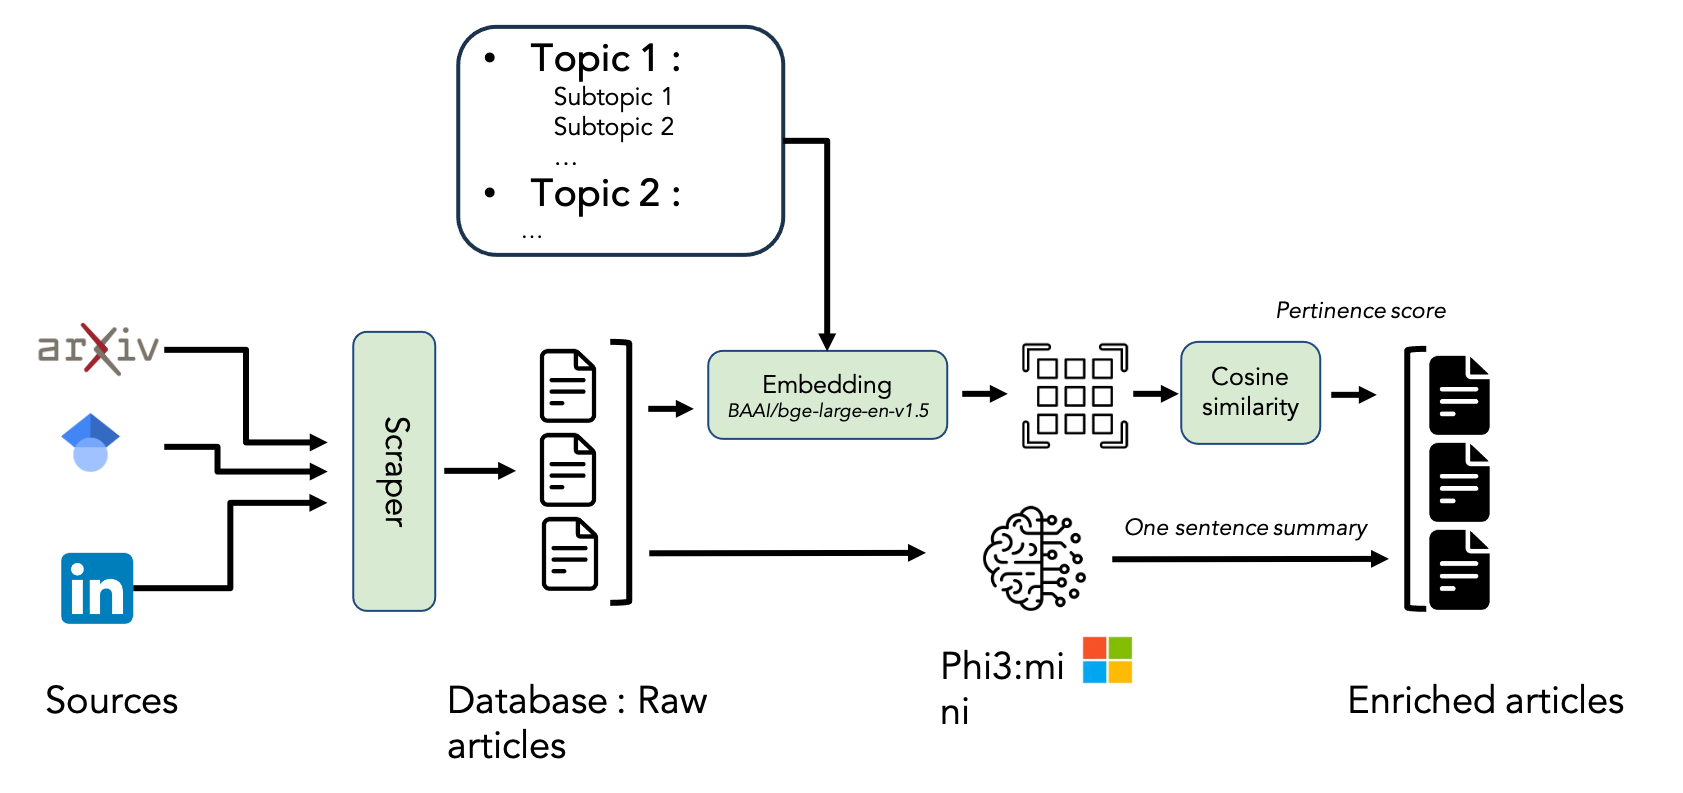
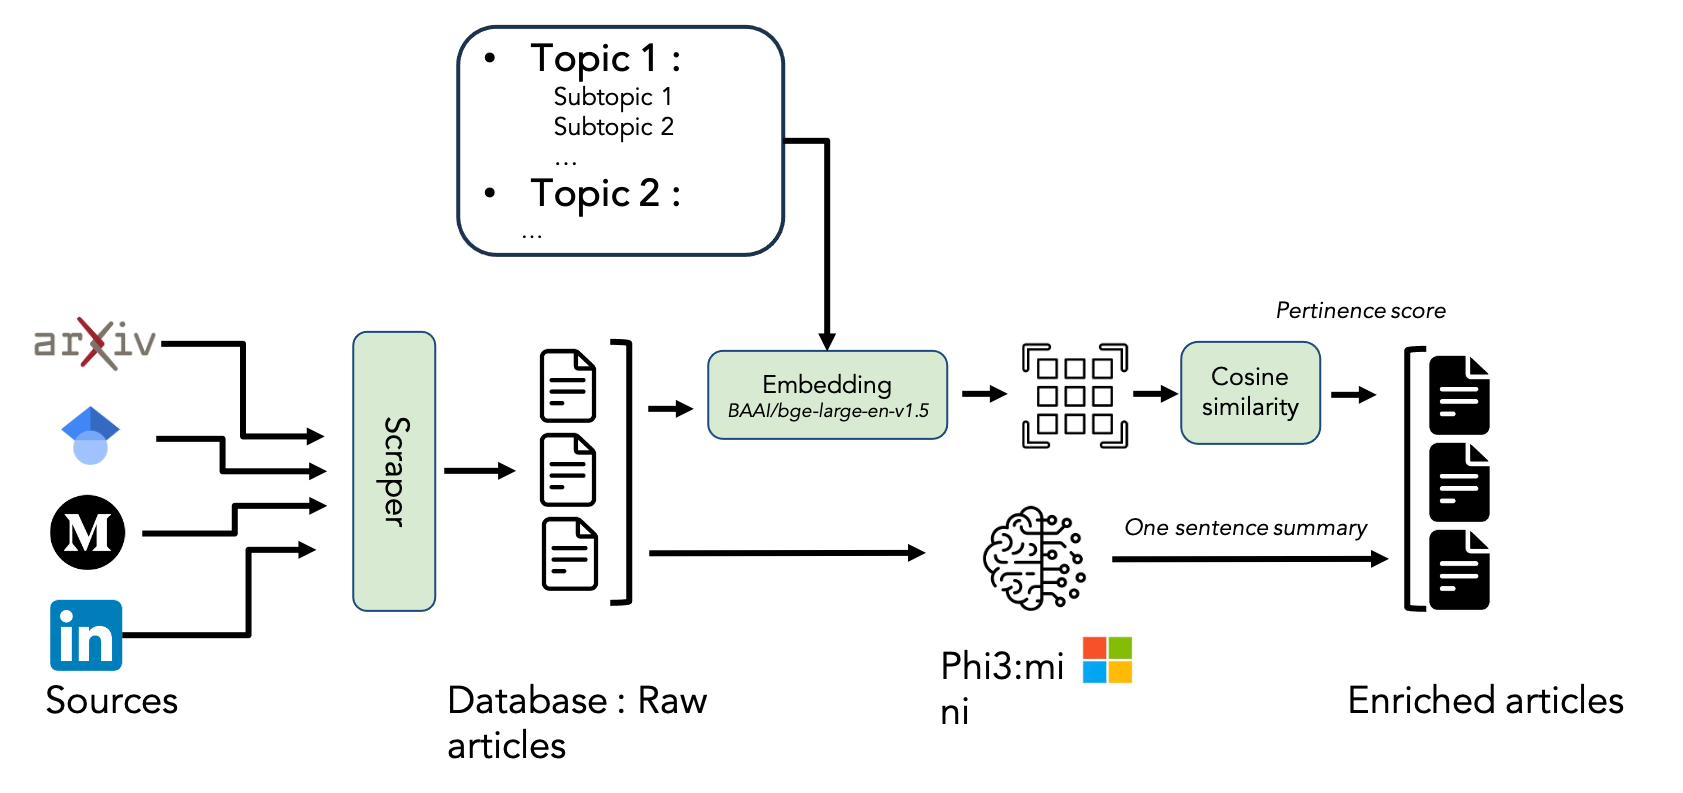
update a propos de ce travai part

Changed region(s): [[0.0, 0.3934, 0.2163, 0.8474]]

diff --git a/app.js b/app.js
@@ -525,11 +525,34 @@ function renderAboutWork() {
     </div>
     <div class="about-work-page">
       <p class="about-work-lead">
-        Ce projet de veille technologique (MOS 4.4) vise à suivre les avancées sur les <b>Small Language Models (SLM)</b> et le <b>Edge AI</b>.
-        Les articles sont collectés, analysés et classés selon une taxonomie (catégories / sous-catégories).
-        Une interface permet d'explorer les articles par thème et de consulter les synthèses pédagogiques sur les SLM et le Edge AI.
-        Tout le travail est reproductible et peut être mis à jour via les scripts de scrapings / traitement des données dans le dépôt github.
+        Ce projet de veille technologique (MOS 4.4) vise à suivre les avancées sur les <b>Small Language Models (SLM)</b> et le <b>Edge AI</b> :
+        articles et publications sont collectés depuis plusieurs sources, enrichis par une classification automatique selon une taxonomie (sujets et sous-sujets) et par la génération de résumés,
+        puis explorables via ce site. Les détails techniques (scripts, commandes, structure du dépôt) sont dans le README du projet.
       </p>
+
+      <div class="subsection-label">Objectifs</div>
+      <p class="about-work-p">
+        Monitorer l’état de l’art (papers et signaux variés), structurer l’information selon une taxonomie précise (Topic / Subtopic),
+        et fournir une interface de consultation : ce site charge des données pré-calculées et permet de naviguer par thème sans backend.
+      </p>
+
+      <div class="subsection-label">Principe de fonctionnement</div>
+      <p class="about-work-p">
+        Le flux de traitement (illustré par l'organigramme ci-dessous) commence par la <b>collecte</b> : un module <b>Scraper</b> extrait les informations depuis différentes sources (<b>arXiv, Google Scholar, Medium et LinkedIn</b>) pour constituer une base de données d'articles bruts (<i>Raw articles</i>). Ces articles subissent ensuite un double processus d'enrichissement pour aboutir aux articles finaux (<i>Enriched articles</i>).
+      </p>
+
+      <p class="about-work-p">
+        <b>1. Classification et Embeddings :</b> La taxonomie est définie par une liste de thématiques (<i>Topic 1, Topic 2...</i>). Le contenu de chaque article brut ainsi que les descriptions des thématiques sont transformés en <b>vecteurs</b> grâce au modèle d'embedding <b><code>BAAI/bge-large-en-v1.5</code></b>. Pour classer un article, on compare son vecteur à ceux des thématiques via la <b>similarité cosinus</b>. Ce calcul génère un <b>score de pertinence</b> (<i>Pertinence score</i>) qui permet d'affecter l'article à la catégorie la plus proche sémantiquement.
+      </p>
+
+      <p class="about-work-p">
+        <b>2. Résumé automatique :</b> En parallèle, chaque article brut est traité par le modèle de langage <b>Phi3:mini</b> (de Microsoft). L'objectif de ce modèle est de générer une synthèse de l'article en une seule phrase (<b><i>One sentence summary</i></b>) afin de faciliter la lecture rapide sur l'interface.
+      </p>
+
+      <p class="about-work-p">
+        Tout ce travail d'enrichissement (calculs de similarité et génération de texte) est fait en amont ; le site ne fait que charger, filtrer et trier la base de données finale d'articles enrichis.
+      </p>
+
       <div class="subsection-label">Organigramme du travail</div>
       <div class="about-organigram-wrap">
         <img src="images/organigramme.png" alt="Organigramme du travail" class="about-organigram-img" loading="lazy">

diff --git a/style.css b/style.css
@@ -701,6 +701,34 @@ main#main-panel { overflow-y: auto; background: var(--bg); }
   line-height: 1.7;
   margin-bottom: 28px;
 }
+.about-work-p {
+  font-size: 0.9rem;
+  color: var(--tx-mid);
+  line-height: 1.65;
+  margin-bottom: 16px;
+}
+.about-work-p code {
+  font-family: var(--mono);
+  font-size: 0.82em;
+  background: var(--surface2);
+  padding: 1px 5px;
+  border-radius: 4px;
+}
+.about-work-list {
+  font-size: 0.88rem;
+  color: var(--tx-mid);
+  line-height: 1.6;
+  margin: 0 0 20px 1.2rem;
+  padding-left: 0.5rem;
+}
+.about-work-list li { margin-bottom: 10px; }
+.about-work-list code {
+  font-family: var(--mono);
+  font-size: 0.85em;
+  background: var(--surface2);
+  padding: 1px 4px;
+  border-radius: 3px;
+}
 .about-work-footer { margin-top: 36px; padding-top: 24px; border-top: 1px solid var(--line); }
 .about-work-meta {
   font-size: 0.85rem;
